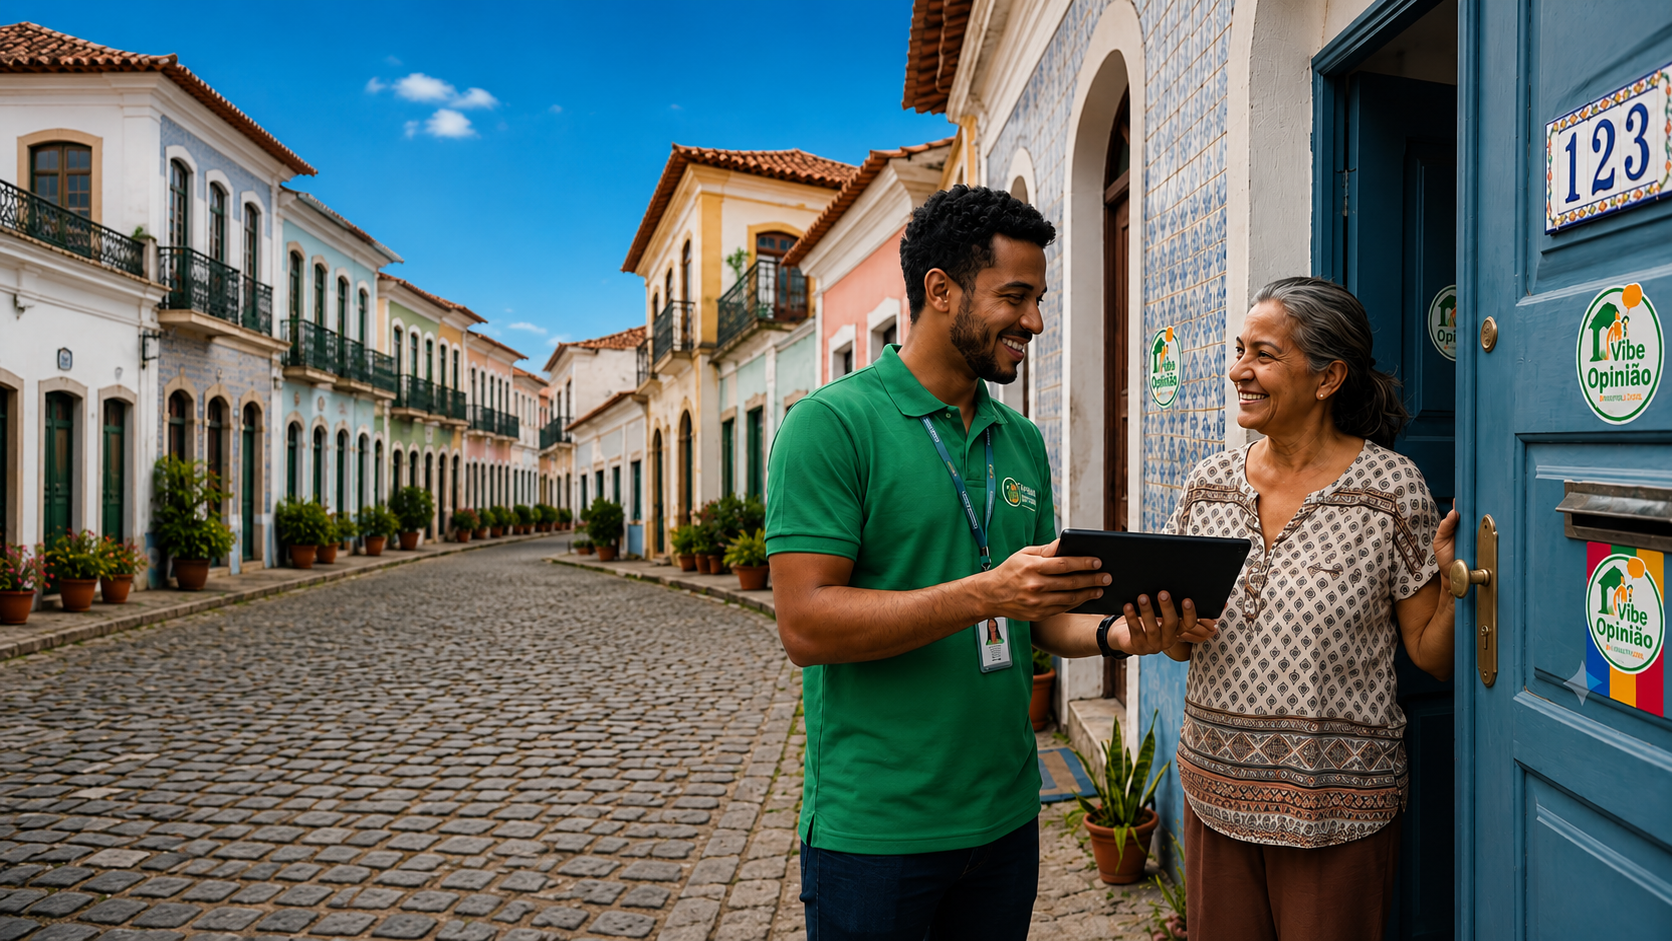
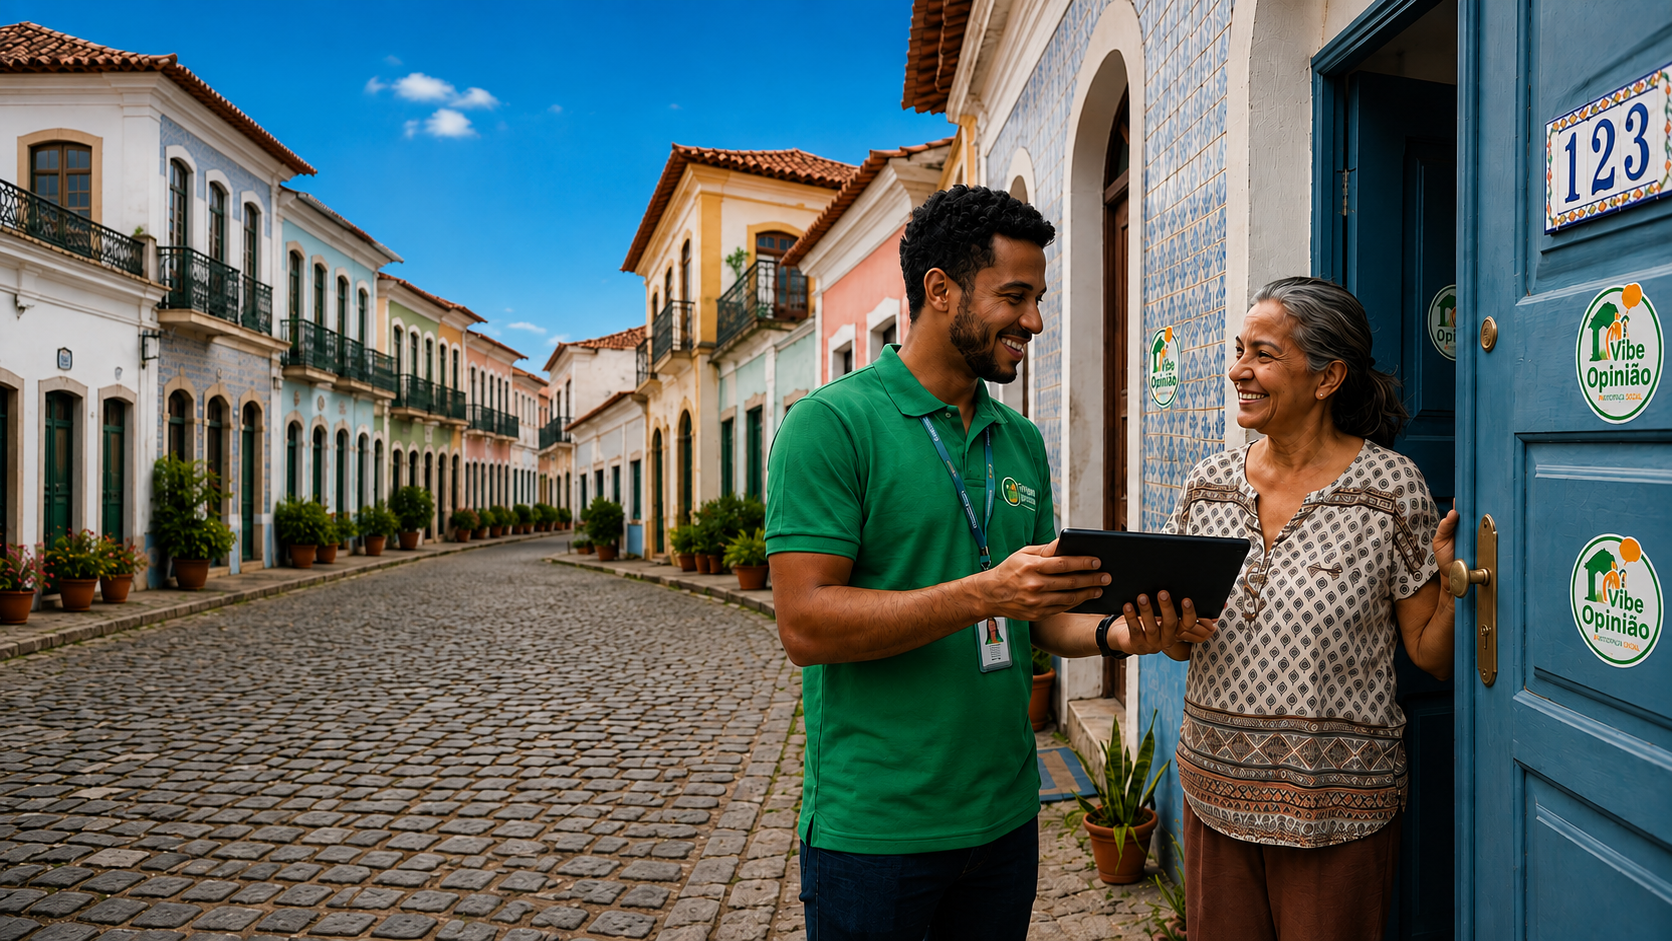
ajuste de imagem e add botão de whatsapp e botão up

diff --git a/index.html b/index.html
@@ -1012,6 +1012,47 @@
       </div>
     </footer>
 
+    <!-- Container dos Botões Flutuantes (Fixo no canto inferior direito) -->
+    <div
+      id="floating-buttons"
+      class="fixed bottom-6 right-6 z-50 flex flex-col items-center gap-3 opacity-0 pointer-events-none transition-all duration-300 transform translate-y-4"
+    >
+      <!-- Botão do WhatsApp -->
+      <a
+        href="https://wa.me/5598988566988"
+        target="_blank"
+        rel="noopener noreferrer"
+        aria-label="Contato via WhatsApp"
+        class="bg-emerald-500 hover:bg-emerald-600 text-white p-3.5 rounded-full shadow-lg hover:shadow-xl hover:scale-110 transition-all duration-200 flex items-center justify-center"
+      >
+        <!-- Ícone do WhatsApp (SVG) -->
+        <svg class="w-6 h-6 fill-current" viewBox="0 0 24 24">
+          <path
+            d="M.057 24l1.687-6.163c-1.041-1.804-1.588-3.849-1.587-5.946.003-6.556 5.338-11.891 11.893-11.891 3.181.001 6.167 1.24 8.413 3.488 2.245 2.248 3.481 5.236 3.48 8.414-.003 6.557-5.338 11.892-11.893 11.892-1.99-.001-3.951-.5-5.688-1.448l-6.305 1.654zm6.597-3.807c1.676.995 3.276 1.591 5.392 1.592 5.448 0 9.886-4.434 9.889-9.885.002-5.462-4.415-9.89-9.881-9.892-5.452 0-9.887 4.434-9.889 9.884-.001 2.225.651 3.891 1.746 5.634l-.999 3.648 3.742-.981zm11.387-5.464c-.074-.124-.272-.198-.57-.347-.297-.149-1.758-.868-2.031-.967-.272-.099-.47-.149-.669.149-.198.297-.768.967-.941 1.165-.173.198-.347.223-.644.074-.297-.149-1.255-.462-2.39-1.475-.883-.788-1.48-1.761-1.653-2.059-.173-.297-.018-.458.13-.606.134-.133.297-.347.446-.521.151-.172.2-.296.3-.495.099-.198.05-.372-.025-.521-.075-.148-.669-1.611-.916-2.206-.242-.579-.487-.501-.669-.51l-.57-.01c-.198 0-.52.074-.792.372s-1.04 1.016-1.04 2.479 1.065 2.876 1.213 3.074c.149.198 2.095 3.2 5.076 4.487.709.306 1.263.489 1.694.626.712.226 1.36.194 1.872.118.571-.085 1.758-.719 2.006-1.413.248-.695.248-1.29.173-1.414z"
+          />
+        </svg>
+      </a>
+
+      <!-- Botão de Voltar ao Topo -->
+      <button
+        id="back-to-top"
+        aria-label="Voltar ao início"
+        class="bg-vibe-dark hover:bg-black text-white p-3.5 rounded-full shadow-lg hover:shadow-xl hover:scale-110 transition-all duration-200 border border-gray-700 flex items-center justify-center cursor-pointer"
+      >
+        <!-- Ícone de Seta para Cima (SVG) -->
+        <svg
+          class="w-6 h-6 stroke-current stroke-2 fill-none"
+          viewBox="0 0 24 24"
+        >
+          <path
+            stroke-linecap="round"
+            stroke-linejoin="round"
+            d="M5 10l7-7m0 0l7 7m-7-7v18"
+          />
+        </svg>
+      </button>
+    </div>
+
     <!-- Swiper JS -->
     <script src="https://cdn.jsdelivr.net/npm/swiper@11/swiper-bundle.min.js"></script>
     <!-- Entry Script -->

diff --git a/js/main.js b/js/main.js
@@ -211,6 +211,47 @@ document.addEventListener("DOMContentLoaded", () => {
     }
   }
 
+  // 6 botões flutuantes
+
+  const floatingButtons = document.getElementById("floating-buttons");
+  const backToTopBtn = document.getElementById("back-to-top");
+
+  // Controla a visibilidade dos botões ao rolar a página
+  window.addEventListener("scroll", () => {
+    // Aparece quando rolar mais de 300px para baixo (aproximadamente após a 1ª seção)
+    if (window.scrollY > 300) {
+      floatingButtons.classList.remove(
+        "opacity-0",
+        "pointer-events-none",
+        "translate-y-4",
+      );
+      floatingButtons.classList.add(
+        "opacity-100",
+        "pointer-events-auto",
+        "translate-y-0",
+      );
+    } else {
+      floatingButtons.classList.remove(
+        "opacity-100",
+        "pointer-events-auto",
+        "translate-y-0",
+      );
+      floatingButtons.classList.add(
+        "opacity-0",
+        "pointer-events-none",
+        "translate-y-4",
+      );
+    }
+  });
+
+  // Ação de rolar suavemente até o topo ao clicar na seta
+  backToTopBtn.addEventListener("click", () => {
+    window.scrollTo({
+      top: 0,
+      behavior: "smooth",
+    });
+  });
+
   window.addEventListener("scroll", handleHeaderScroll);
   handleHeaderScroll(); // Roda na carga inicial
 });
